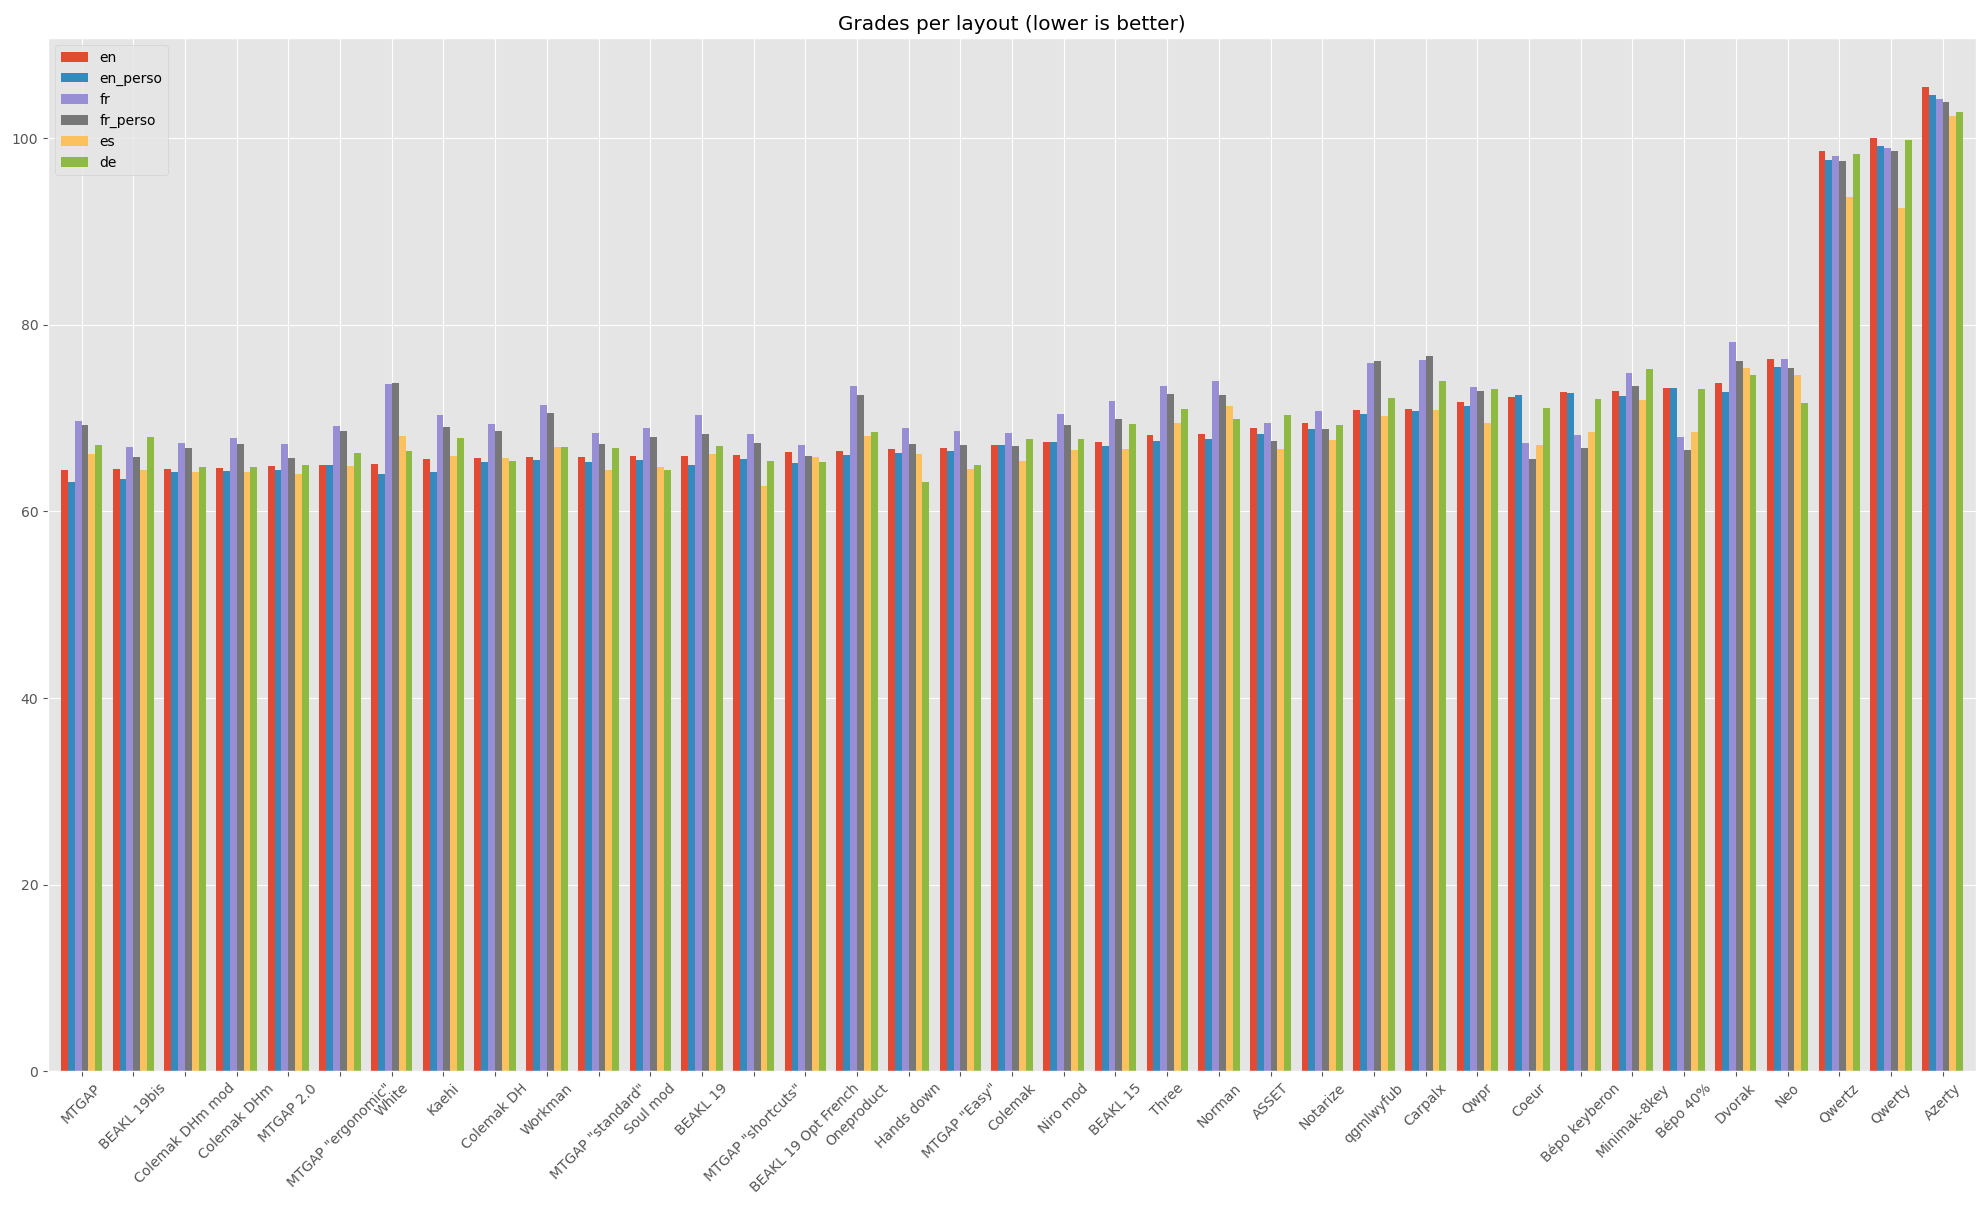
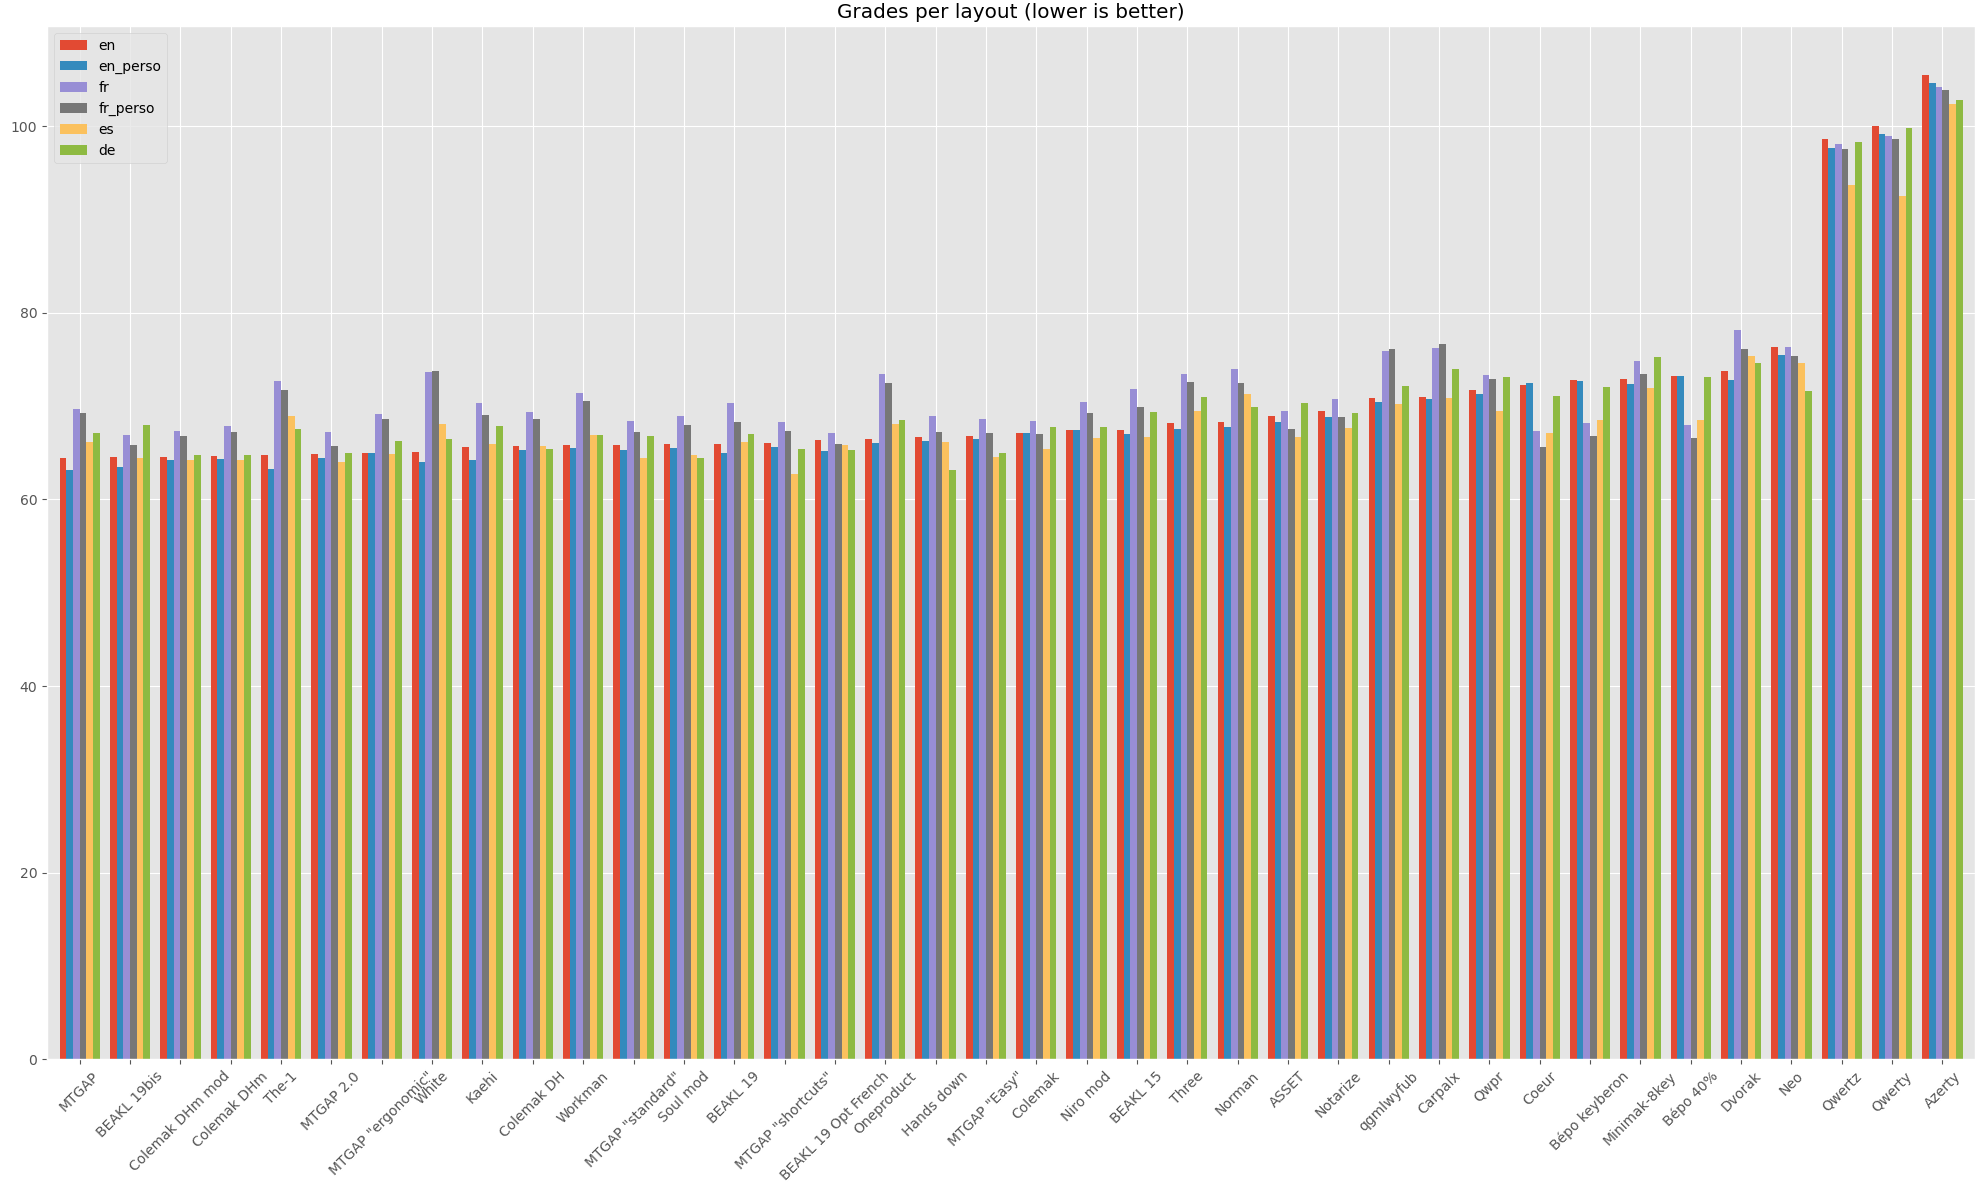
Added "The-1" layout. Solves #2

diff --git a/README.md b/README.md
@@ -222,6 +222,7 @@ Here is the complete results list. The layouts can be seen in `config.txt`.
 | [BEAKL 19bis](https://www.reddit.com/r/ErgoDoxEZ/comments/gsvpug/layout_of_the_month_beakl_15/ftcan68/?context=3)                             |   64.51 |         63.47 |  66.87 |        65.81 |   64.45 |  67.92 |
 | Colemak DHm mod                                                                                                                               |   64.54 |         64.18 |  67.32 |        66.75 |   64.18 |  64.70 |
 | [Colemak DHm](https://colemakmods.github.io/mod-dh/keyboards.html)                                                                            |   64.66 |         64.31 |  67.88 |        67.21 |   64.18 |  64.70 |
+| [The-1](https://docs.google.com/document/d/1yiCnIi1oagV1D8ZouMt-TRFRG8d6AfSBIwQkBvSflvY/edit)                                                 |   64.80 |         63.20 |  72.64 |        71.75 |   68.97 |  67.54 |
 | [MTGAP 2.0](https://mathematicalmulticore.wordpress.com/2010/06/21/mtgaps-keyboard-layout-2-0/)                                               |   64.91 |         64.44 |  67.21 |        65.77 |   64.01 |  64.98 |
 | [MTGAP "ergonomic"](http://mtgap.bilfo.com/official_keyboard.html)                                                                            |   64.99 |         64.96 |  69.18 |        68.63 |   64.81 |  66.23 |
 | [White](https://github.com/mw8/white_keyboard_layout)                                                                                         |   65.10 |         64.00 |  73.60 |        73.76 |   68.09 |  66.50 |
